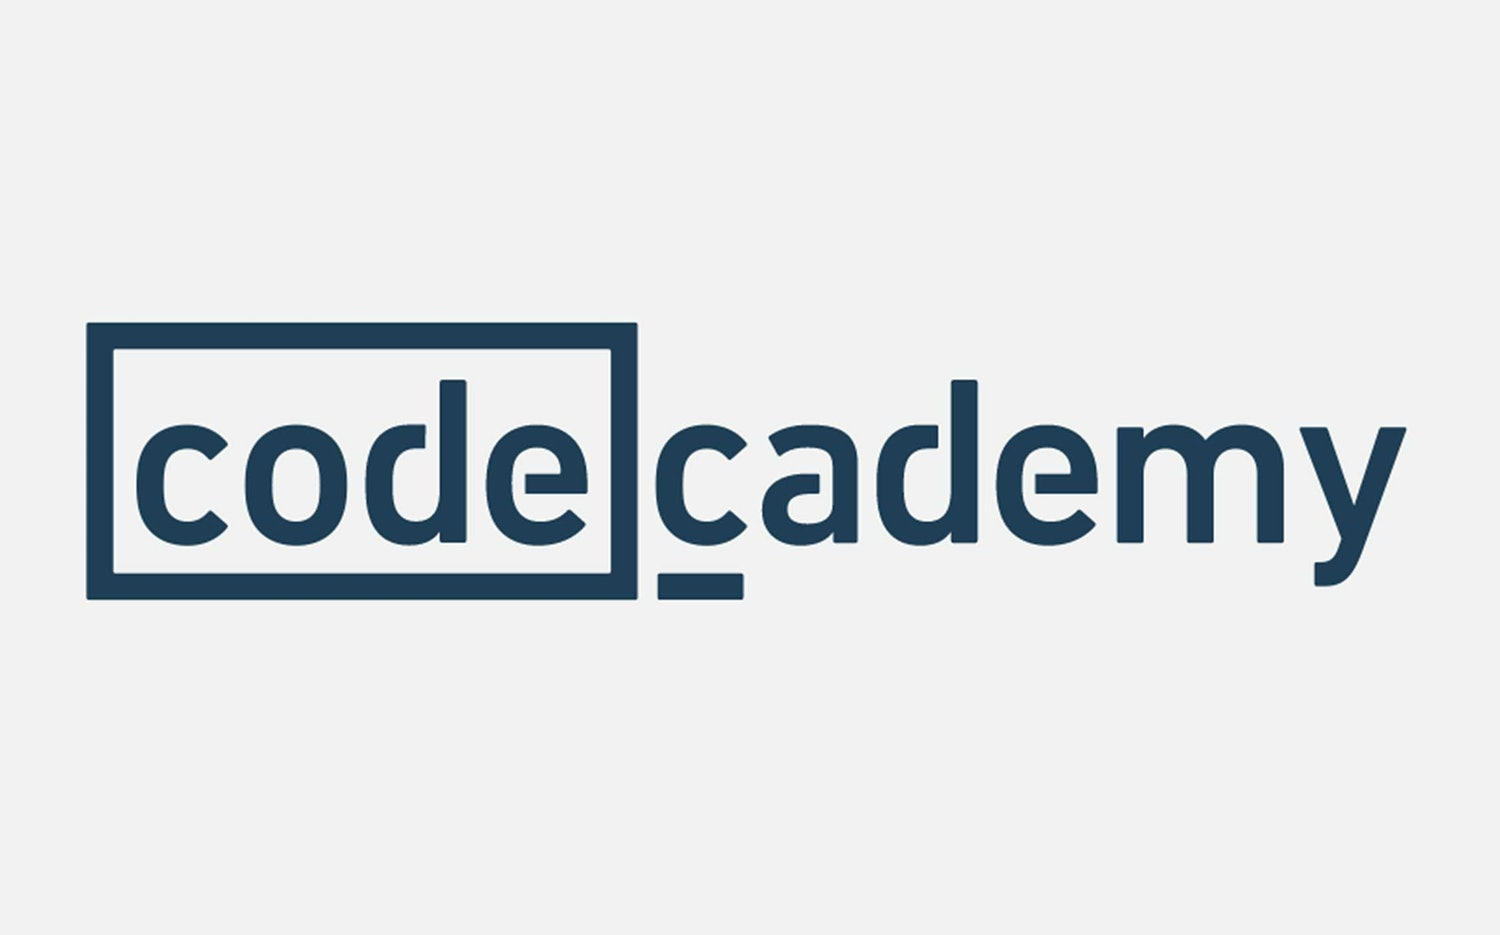
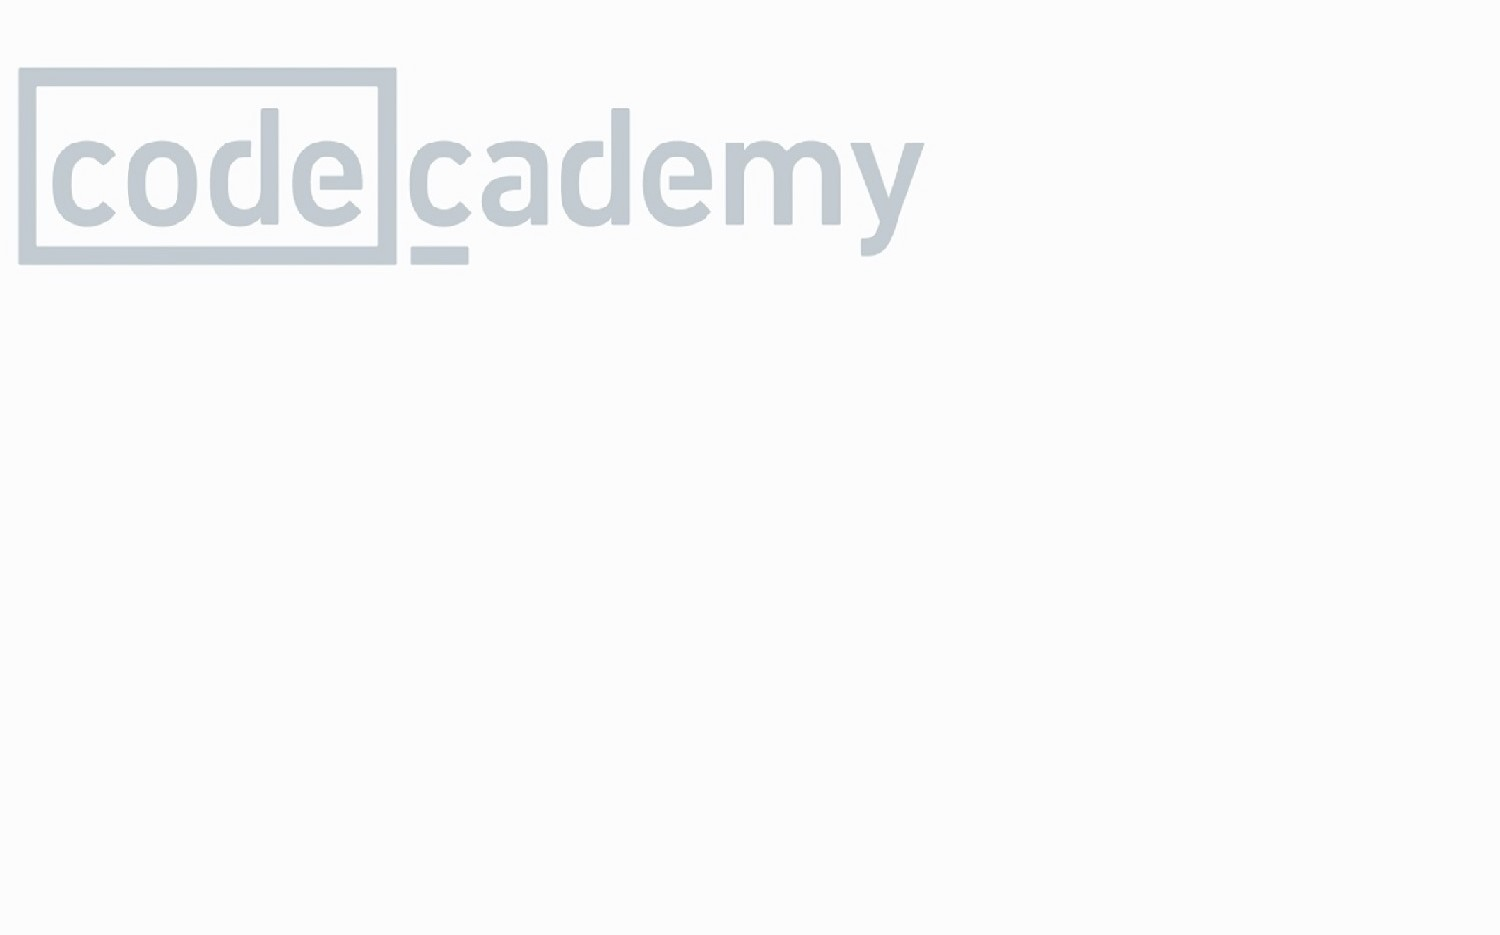
Bg and button position change

Changed region(s): [[0.0307, 0.3412, 0.9507, 0.6513], [0.0, 0.062, 0.6133, 0.3102]]

diff --git a/style.css b/style.css
@@ -1,8 +1,7 @@
 body {
     text-align: center;
-    background-image: url(codecademy_bg.jpg);
-    background-position: center;
     padding-bottom: 50px;
+    background-image: url(codecademy_bg.jpg);
 }
 h1 {
     color: #03045e;
@@ -17,6 +16,11 @@ button {
     background-color: #f8edeb;
     border-radius: 8px;
     box-shadow: 0 8px 16px 0 rgba(0,0,0,0.2), 0 6px 20px 0 rgba(0,0,0,0.19);
+    position: absolute;
+    left: 50%;
+    top: 50%;
+    transform: translate(-50%, -50%);
+    padding: 10px;
 }
 button:hover {
     background-color: lightgrey;
